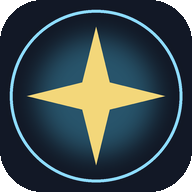
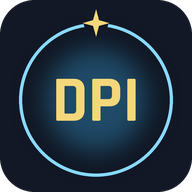
Novo nome: DPI · Destiny Parallel Interface (título, app instalado, ícones, imagem de compartilhar)
Claude-Session: https://claude.ai/code/session_011EvwNF2x2bsRuBMwFwjBEs

diff --git a/app.js b/app.js
@@ -1,4 +1,4 @@
-/* Destiny Checklist — lê a conta Bungie.net da pessoa e monta o checklist.
+/* DPI · Destiny Parallel Interface — lê a conta Bungie.net da pessoa e monta o checklist.
    Tudo roda no navegador; o servidor só troca o código do login pelos tokens. */
 (() => {
 'use strict';
@@ -970,7 +970,7 @@ async function buildShareCanvas(C, S = 1, MAXH = 4400) {
   }
   // rodapé
   x.fillStyle = 'rgba(255,255,255,.12)'; x.fillRect(PAD, y, CW, 2); y += 46;
-  text('destiny-checklist.vercel.app', PAD, y, F.m(22), '#c3ccda');
+  text('DPI · ' + location.host, PAD, y, F.m(22), '#c3ccda');
   text(new Date().toLocaleDateString(lang === 'pt' ? 'pt-BR' : 'en-US', { day: '2-digit', month: 'short', year: 'numeric' }), Wd - PAD, y, F.m(22), '#8f9bb0', 'right');
   y += 40;
 
@@ -1220,7 +1220,7 @@ function render() {
   renderWeek(); renderBuild();
   if (!cfg) return;
   if (!logged) {
-    delete $('title').dataset.full; $('title').style.fontSize = ''; $('title').classList.remove('two'); $('title').textContent = 'Destiny Checklist'; document.title = 'Destiny Checklist'; $('eyebrow').textContent = 'Destiny 2'; renderGuardian(null);
+    delete $('title').dataset.full; $('title').style.fontSize = ''; $('title').classList.remove('two'); $('title').textContent = 'DPI'; document.title = 'DPI · Destiny Parallel Interface'; $('eyebrow').textContent = 'Destiny Parallel Interface'; renderGuardian(null);
     $('subtabs').hidden = true;
     if (auth) return; // carregando
     const U = u();
@@ -1233,7 +1233,7 @@ function render() {
   const mx = maxPower(ch.classType);
   const sub = (profile.characterEquipment?.data?.[charId]?.items || []).find(i => i.bucketHash === SUB_BUCKET), sn = sub && gearDefs[sub.itemHash]?.n;
   const ttl = charTitle(cls, sn);
-  Object.assign($('title').dataset, { full: ttl, short: sn || cls, cls }); $('title').textContent = ttl; $('title').title = `${U.races[ch.raceType] || ''} ${cls}`; document.title = ttl + ' · Destiny Checklist';
+  Object.assign($('title').dataset, { full: ttl, short: sn || cls, cls }); $('title').textContent = ttl; $('title').title = `${U.races[ch.raceType] || ''} ${cls}`; document.title = ttl + ' · DPI';
   renderGuardian(ch);
   $('eyebrow').dataset.base = member.name || ''; $('eyebrow').textContent = member.name || ''; $('eyebrow').title = member.name || ''; fitTitle();
   $('ghpw').hidden = false; $('pwv').textContent = ch.light; $('pwmax').textContent = mx && mx > ch.light ? `${U.max} ${mx}` : U.power;
@@ -1428,7 +1428,7 @@ function favsHTML() {
 const playerLink = name => `${location.origin}/?jogador=${encodeURIComponent(name)}`;
 async function copyLink(name, btn) {
   const url = playerLink(name);
-  try { if (navigator.share && matchMedia('(pointer:coarse)').matches) { await navigator.share({ title: name + ' · Destiny Checklist', url }); return; } } catch (e) { if (e?.name === 'AbortError') return; }
+  try { if (navigator.share && matchMedia('(pointer:coarse)').matches) { await navigator.share({ title: name + ' · DPI', url }); return; } } catch (e) { if (e?.name === 'AbortError') return; }
   try { await navigator.clipboard.writeText(url); } catch { prompt('', url); return; }
   if (btn) { btn.classList.add('ok'); btn.dataset.tip = u().w.linkOk; setTimeout(() => { btn.classList.remove('ok'); delete btn.dataset.tip; }, 1600); }
 }

diff --git a/index.html b/index.html
@@ -3,7 +3,7 @@
 <head>
 <meta charset="utf-8">
 <meta name="viewport" content="width=device-width,initial-scale=1,viewport-fit=cover">
-<title>Destiny Checklist</title>
+<title>DPI · Destiny Parallel Interface</title>
 <link rel="manifest" href="/manifest.webmanifest">
 <meta name="theme-color" content="#121826">
 <link rel="icon" type="image/png" sizes="32x32" href="/icons/favicon-32.png">
@@ -11,8 +11,8 @@
 <meta name="apple-mobile-web-app-capable" content="yes">
 <meta name="mobile-web-app-capable" content="yes">
 <meta name="apple-mobile-web-app-status-bar-style" content="black-translucent">
-<meta name="apple-mobile-web-app-title" content="Checklist">
-<meta name="description" content="Checklist de Destiny 2 gerado a partir da sua conta Bungie.net.">
+<meta name="apple-mobile-web-app-title" content="DPI">
+<meta name="description" content="DPI (Destiny Parallel Interface): progresso, builds e o que falta no Destiny 2, a partir da sua conta Bungie.net.">
 <link rel="preconnect" href="https://fonts.googleapis.com">
 <link rel="preconnect" href="https://fonts.gstatic.com" crossorigin>
 <link rel="stylesheet" href="https://fonts.googleapis.com/css2?family=Rajdhani:wght@600;700&family=IBM+Plex+Sans:wght@400;500;600&family=IBM+Plex+Mono:wght@500&display=swap">
@@ -25,7 +25,7 @@
   <header>
     <div class="gh noemb" id="gh">
       <div class="gh-band" id="ghband">
-        <div class="gh-id"><div class="eyebrow" id="eyebrow">Destiny 2</div><h1 id="title">Destiny Checklist</h1></div>
+        <div class="gh-id"><div class="eyebrow" id="eyebrow">Destiny Parallel Interface</div><h1 id="title">DPI</h1></div>
         <div class="gh-pw" id="ghpw" hidden><b id="pwv"></b><span id="pwmax"></span></div>
       </div>
       <div class="gh-strip">

diff --git a/sw.js b/sw.js
@@ -1,7 +1,7 @@
 /* Service worker: o site abre como app e funciona sem internet com a última versão salva.
    Arquivos do site: rede primeiro (sempre a versão nova), cache se estiver offline.
    Ícones da Bungie: cache primeiro (não mudam). Login e API ficam de fora. */
-const V = 'dc-v2';
+const V = 'dc-v3';
 const SHELL = ['/', '/index.html', '/app.js', '/styles.css', '/site.css', '/data/defs.json', '/data/items.json', '/manifest.webmanifest', '/icons/icon-192.png', '/icons/icon-512.png'];
 self.addEventListener('install', e => { e.waitUntil(caches.open(V).then(c => c.addAll(SHELL)).then(() => self.skipWaiting())); });
 self.addEventListener('activate', e => { e.waitUntil(caches.keys().then(ks => Promise.all(ks.filter(k => k !== V).map(k => caches.delete(k)))).then(() => self.clients.claim())); });

diff --git a/README.md b/README.md
@@ -1,4 +1,4 @@
-# Destiny Checklist
+# DPI · Destiny Parallel Interface
 
 Site que lê a conta Bungie.net de quem entrar e monta um checklist de Destiny 2: missões em andamento, campanhas, incursões, masmorras, títulos, exóticos e catalisadores que faltam, do mais fácil para o mais difícil. Tem versão em português e inglês com os nomes oficiais do jogo.
 
